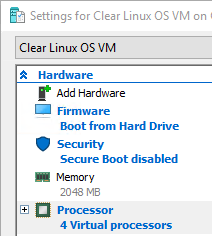
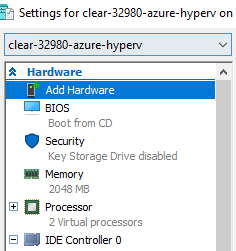
Align Hyper-V docs to align w change from hyper.vhdx to azure-hyperv.vhd. - Remove images azure-docker, azure-machine-learning, and hyperv. - Closes #1141 - Revises from Hyper-V Gen 2 to Gen 1, with relative changes to settings. - Replaces figure 3 because Gen 1 settings are different from Gen 2 - R

diff --git a/source/get-started/virtual-machine-install/hyper-v.rst b/source/get-started/virtual-machine-install/hyper-v.rst
@@ -15,8 +15,8 @@ Overview
 ********
 
 Hyper-V is a type 1 bare-metal hypervisor that runs directly on system
-hardware. It is available for `Windows\* server`_ and client operating systems,
-including `Windows 10`_.
+hardware. It is available for `Windows\* server`_ and client operating 
+systems, including `Windows 10`_.
 
 |CL| provides a virtual disk image for Hyper-V, which also includes
 a :ref:`Hyper-V specific kernel <compatible-kernels>` and drivers.
@@ -43,14 +43,16 @@ Prerequisites
 Download the |CL| disk image for Hyper-V
 ****************************************
 
-#. Download the :file:`clear-[VERSION]-hyperv.vhdx.gz` for Microsoft* Hyper-V
-   from the `downloads`_ website.
+#. Download the :file:`clear-[VERSION]-azure-hyperv.vhd.gz` for Microsoft* 
+   Hyper-V from the `downloads`_ website.
 
 #. Verify and extract the image using these instructions:
    :ref:`download-verify-decompress`.
 
-   After extraction, the file should be named :file:`clear-[VERSION]-hyperv.vhdx`.
+#. Extract the compressed file using software such as the 
+   7-Zip\* tool or the WinZip\* tool. 
 
+   After extraction, the file should be named :file:`clear-[VERSION]-azure-hyperv.vhd`.
 
 Create and configure new VM
 ****************************
@@ -63,6 +65,10 @@ Create and configure new VM
 
       Figure 1: Hyper-V Manager from the Start menu
 
+   .. note::
+
+      You may need to manually enable Hyper-V on a Windows\* machine. Review 
+      ``Windows Features``.
 
 #. Create a *New Virtual Machine* by clicking the :guilabel:`Action` menu,
    then selecting :guilabel:`New` and :guilabel:`Virtual Machine...`.
@@ -77,23 +83,22 @@ Create and configure new VM
    specifying the options below:
 
    - **Name**: Choose name (for example, ClearLinuxOS-VM)
-   - **Generation**: Generation 2
+   - **Specify Generation**: Generation 1
    - **Startup memory**: 2048 MB or more
+   - **Configure Networking**: Change :guilabel:`Connection` to `Default Switch`
    - **Connect Virtual Hard Disk**: Select :guilabel:`Use an existing virtual
-     hard disk` and browse to find the :file:`clear-[VERSION]-hyperv.vhdx`
-     file.
+     hard disk` and browse to find the 
+     :file:`clear-[VERSION]-azure-hyperv.vhd` file.
 
    After finishing the wizard, the VM will be created but not powered on.
 
 #. Configure the VM by right-clicking it in the Hyper-V Manager and selecting
-   :guilabel:`Settings...`.
-   Figure 3 shows the Settings page after configuration selections.
+   :guilabel:`Settings...`. Figure 3 shows the Settings page after configuration selections.
 
-   - Under :guilabel:`Firmware`, select the Virtual disk and click
-     :guilabel:`Move Up...` until it is at the top of the list.
+   **Optional**
 
-   - Under :guilabel:`Security`, uncheck the :guilabel:`Enable Secure Boot`
-     checkbox.
+   - If you wish to `Encrypt state and virtual machine traffic, under 
+     :guilabel:`Security`, select :guilabel:`Add Key Storage Drive`.
 
    - Under :guilabel:`Processor`, consider increasing the number of virtual
      processors assigned to the |CL| VM to improve performance.
@@ -112,12 +117,12 @@ Create and configure new VM
 Start the VM
 ************
 
-#. Start the |CL| VM by right-clicking the VM in Hyper-V Manager and selecting
-   :guilabel:`Start`.
+#. Start the |CL| VM by right-clicking the VM in Hyper-V Manager and 
+   selecting :guilabel:`Start`.
 
 #. Connect to the VM console by right-clicking the VM in Hyper-V Manager and
-   selecting :guilabel:`Connect...`. A new *Virtual Machine Connection* window
-   is displayed.
+   selecting :guilabel:`Connect...`. A new *Virtual Machine Connection* 
+   window is displayed.
 
 #. After |CL| is booted, log in to the console with user *root*. You are
    prompted to set a new password immediately.

diff --git a/source/reference/image-types.rst b/source/reference/image-types.rst
@@ -51,17 +51,6 @@ Table 2 lists the currently available images that are platform specific.
    * - aws.img
      - Image suitable for use with Amazon\* AWS\*.
 
-   * - azure.vhd
-     - Virtual Hard Disk for use on Microsoft\* Azure\* cloud platform.
-
-   * - azure-docker.vhd
-     - Virtual Hard Disk for use on Microsoft Azure cloud platform with
-       Docker\* pre-installed.
-
-   * - azure-machine-learning.vhd
-     - Virtual Hard Disk for use on Microsoft Azure cloud platform with the
-       `machine-learning-basic` bundle installed.
-
    * - cloudguest.img
      - Image with generic cloud guest virtual machine (VM) requirements
        installed.
@@ -69,8 +58,8 @@ Table 2 lists the currently available images that are platform specific.
    * - gce.tar
      - Image with the Google Compute Engine (GCE) specific kernel.
 
-   * - hyperv.vhdx
-     - Virtual Hard Disk for use with Microsoft Hyper-V\* hypervisor. Includes
+   * - azure-hyperv.vhd
+     - Image for Microsoft* Azure and Hyper-V generation 1 VMs. Includes
        :ref:`optimized kernel <vm-kernels>` for Hyper-V.
 
    * - kvm.img

diff --git a/source/guides/clear/compatible-kernels.rst b/source/guides/clear/compatible-kernels.rst
@@ -57,19 +57,6 @@ Kernel Hyper-V\*
     for more information. The optimization patches are found in our
     `Linux-HyperV`_ GitHub repo.
 
-Kernel Hyper-V LTS
-    The *kernel-hyperv-lts* bundle focuses on running Linux on Microsoft
-    Hyper-V but uses the latest :abbr:`LTS (Long Term Support)` Linux kernel.
-    It is optimized for fast booting and performs best on Virtual
-    Machines running on the Intel® architectures described on the
-    :ref:`supported hardware list<system-requirements>`.
-    Use this kernel when running |CL| as the guest OS of **Cloud Instances** in
-    projects such as Microsoft `Azure`_. This kernel can be used in a
-    standalone |CL| VM, see our :ref:`instructions on using Hyper-V<hyper-v>`
-    for more information. The optimization patches are found in our
-    `Linux-HyperV-LTS`_ GitHub repo.
-
-
 .. _Linux: https://github.com/clearlinux-pkgs/linux
 .. _Linux-LTS: https://github.com/clearlinux-pkgs/linux-lts
 .. _Linux-KVM: https://github.com/clearlinux-pkgs/linux-kvm
